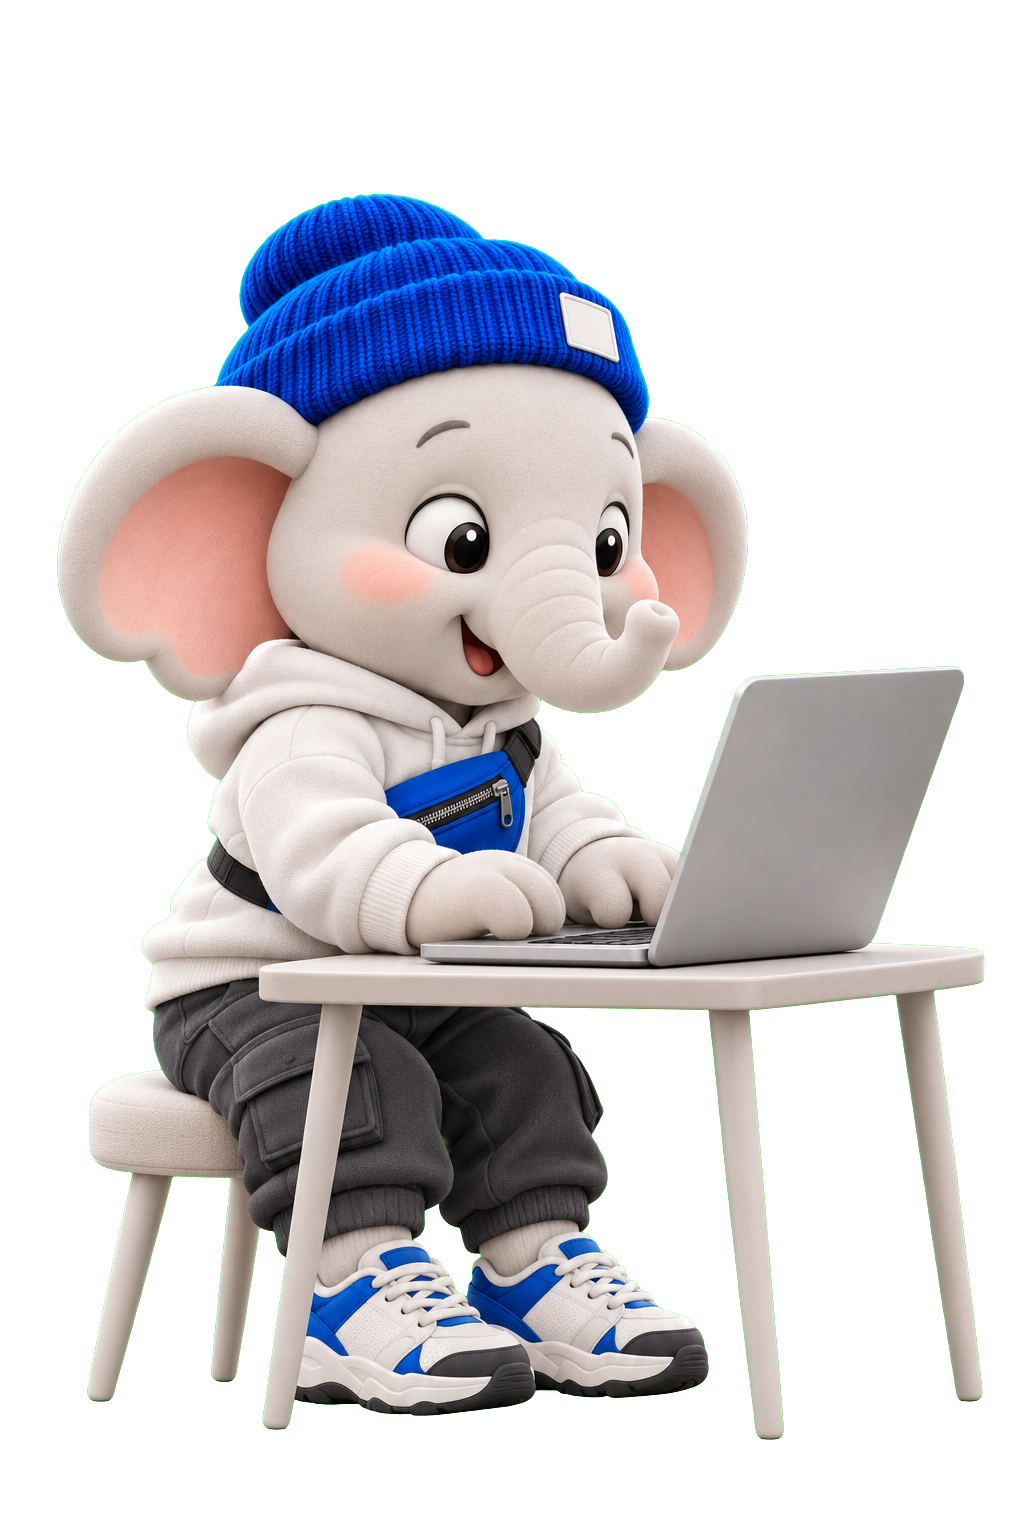
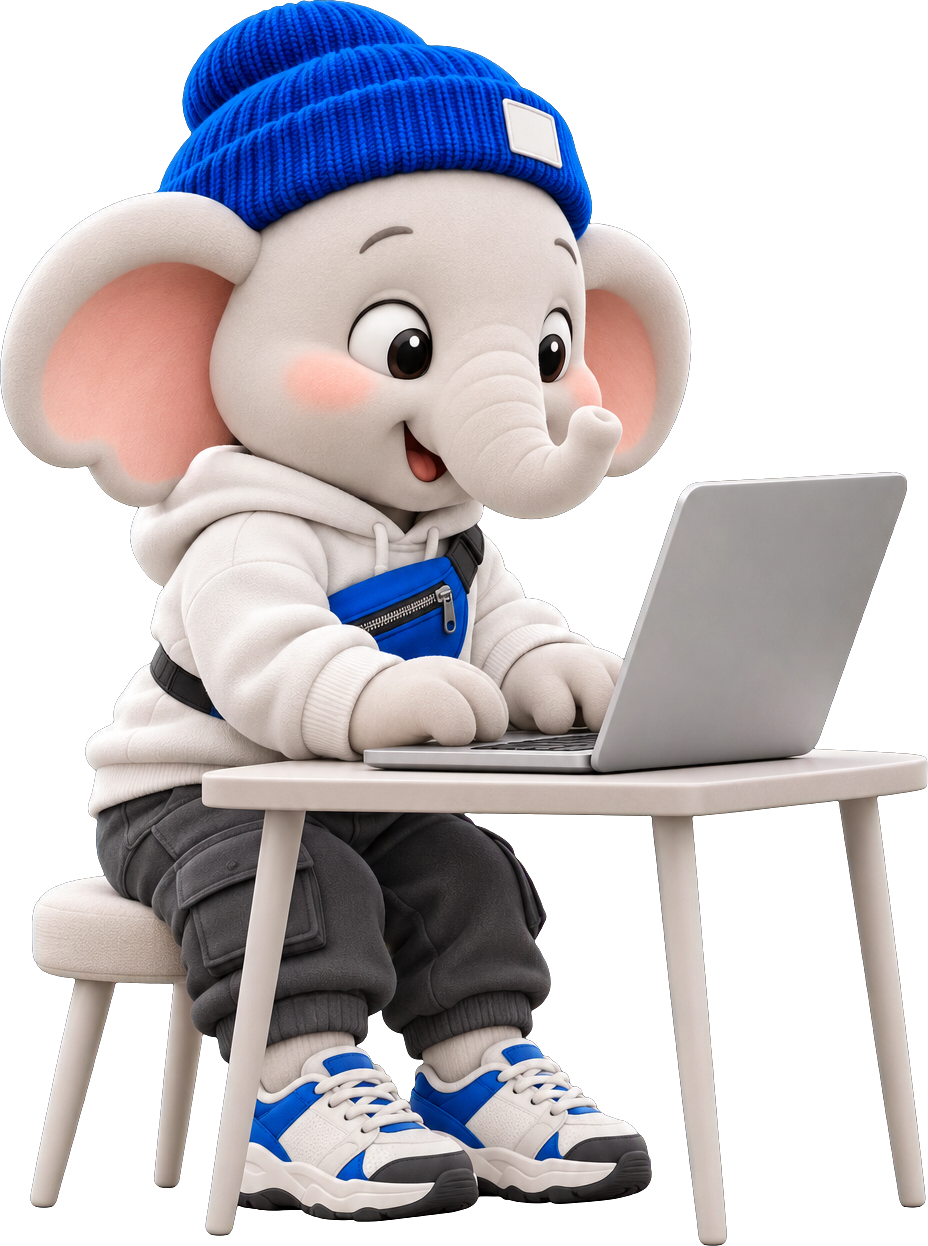
fix: polish mascot alpha edges and set official booking url to wordlordmedia.com/contact

diff --git a/public/social.html b/public/social.html
@@ -325,9 +325,9 @@ a{color:inherit;text-decoration:none}
         "sameAs": [
           "https://instagram.com/wordlordmedia",
           "https://techlord.wordlordmedia.com",
-          "https://calendar.wordlordmedia.com"
+          "https://wordlordmedia.com/contact"
         ],
-        "bookingService": "https://calendar.wordlordmedia.com",
+        "bookingService": "https://wordlordmedia.com/contact",
         "contactPoint": {
           "@type": "ContactPoint",
           "telephone": "+91-79735-75656",
@@ -474,7 +474,7 @@ a{color:inherit;text-decoration:none}
   </div>
   <div class="reels"><figure class="tile"><img src="assets/social/p1travels/1.jpg" alt=""><figcaption><svg viewBox="0 0 12 12" aria-hidden="true"><path d="M3 1.8v8.4L10 6z" fill="currentColor"/></svg><b>2.3M</b></figcaption></figure><figure class="tile"><img src="assets/social/p1travels/2.jpg" alt=""><figcaption><svg viewBox="0 0 12 12" aria-hidden="true"><path d="M3 1.8v8.4L10 6z" fill="currentColor"/></svg><b>105K</b></figcaption></figure><figure class="tile"><img src="assets/social/p1travels/3.jpg" alt=""><figcaption><svg viewBox="0 0 12 12" aria-hidden="true"><path d="M3 1.8v8.4L10 6z" fill="currentColor"/></svg><b>55.2K</b></figcaption></figure><figure class="tile"><img src="assets/social/p1travels/4.jpg" alt=""><figcaption><svg viewBox="0 0 12 12" aria-hidden="true"><path d="M3 1.8v8.4L10 6z" fill="currentColor"/></svg><b>14.2K</b></figcaption></figure></div></article></section><section class="page brand end"><img class="mascot-peek2" src="assets/mascot/elephant-peek-clean.png" alt=""><img class="logo big" src="assets/wl-logo.png" alt="WordLord Media">
 <div class="cv"><h1 contenteditable="true">Next one could be yours.</h1>
-<dl class="contact"><div><dt class="mono">Calendar / Book Call</dt><dd><a href="https://calendar.wordlordmedia.com" target="_blank" rel="noopener">calendar.wordlordmedia.com</a></dd></div><div><dt class="mono">Web</dt><dd><a href="https://wordlordmedia.com" target="_blank" rel="noopener">wordlordmedia.com</a></dd></div>
+<dl class="contact"><div><dt class="mono">Book / Contact</dt><dd><a href="https://wordlordmedia.com/contact" target="_blank" rel="noopener">wordlordmedia.com/contact</a></dd></div><div><dt class="mono">Web</dt><dd><a href="https://wordlordmedia.com" target="_blank" rel="noopener">wordlordmedia.com</a></dd></div>
 <div><dt class="mono">Phone</dt><dd><a href="tel:+917973575656">+91 79735 75656</a></dd></div>
 <div><dt class="mono">Email</dt><dd><a href="mailto:support@wordlordmedia.com">support@wordlordmedia.com</a></dd></div>
 <div><dt class="mono">Instagram</dt><dd><a href="https://instagram.com/wordlordmedia">@wordlordmedia</a></dd></div></dl></div><span></span></section><script src="studio.js"></script>

diff --git a/public/index.html b/public/index.html
@@ -449,9 +449,9 @@ video.mascot-laptop { object-fit: contain; object-position: bottom right; }
         "sameAs": [
           "https://instagram.com/wordlordmedia",
           "https://techlord.wordlordmedia.com",
-          "https://calendar.wordlordmedia.com"
+          "https://wordlordmedia.com/contact"
         ],
-        "bookingService": "https://calendar.wordlordmedia.com",
+        "bookingService": "https://wordlordmedia.com/contact",
         "contactPoint": {
           "@type": "ContactPoint",
           "telephone": "+91-79735-75656",
@@ -890,7 +890,7 @@ video.mascot-laptop { object-fit: contain; object-position: bottom right; }
   <img class="mascot-peek2" src="assets/mascot/elephant-peek-clean.png" alt="WordLord Mascot">
   <img class="logo big" src="assets/wl-logo.png" alt="WordLord Media">
   <div class="cv-main"><h1 contenteditable="true">Next one could be yours.</h1>
-  <dl class="contact"><div><dt class="mono">Calendar / Book Call</dt><dd><a href="https://calendar.wordlordmedia.com" target="_blank" rel="noopener">calendar.wordlordmedia.com</a></dd></div><div><dt class="mono">Web</dt><dd><a href="https://wordlordmedia.com" target="_blank" rel="noopener">wordlordmedia.com</a></dd></div>
+  <dl class="contact"><div><dt class="mono">Book / Contact</dt><dd><a href="https://wordlordmedia.com/contact" target="_blank" rel="noopener">wordlordmedia.com/contact</a></dd></div><div><dt class="mono">Web</dt><dd><a href="https://wordlordmedia.com" target="_blank" rel="noopener">wordlordmedia.com</a></dd></div>
   <div><dt class="mono">Phone</dt><dd><a href="tel:+917973575656">+91 79735 75656</a></dd></div>
   <div><dt class="mono">Email</dt><dd><a href="mailto:support@wordlordmedia.com">support@wordlordmedia.com</a></dd></div>
   <div><dt class="mono">Instagram</dt><dd><a href="https://instagram.com/wordlordmedia">@wordlordmedia</a></dd></div></dl></div>

diff --git a/public/websites.html b/public/websites.html
@@ -449,9 +449,9 @@ video.mascot-laptop { object-fit: contain; object-position: bottom right; }
         "sameAs": [
           "https://instagram.com/wordlordmedia",
           "https://techlord.wordlordmedia.com",
-          "https://calendar.wordlordmedia.com"
+          "https://wordlordmedia.com/contact"
         ],
-        "bookingService": "https://calendar.wordlordmedia.com",
+        "bookingService": "https://wordlordmedia.com/contact",
         "contactPoint": {
           "@type": "ContactPoint",
           "telephone": "+91-79735-75656",
@@ -890,7 +890,7 @@ video.mascot-laptop { object-fit: contain; object-position: bottom right; }
   <img class="mascot-peek2" src="assets/mascot/elephant-peek-clean.png" alt="WordLord Mascot">
   <img class="logo big" src="assets/wl-logo.png" alt="WordLord Media">
   <div class="cv-main"><h1 contenteditable="true">Next one could be yours.</h1>
-  <dl class="contact"><div><dt class="mono">Calendar / Book Call</dt><dd><a href="https://calendar.wordlordmedia.com" target="_blank" rel="noopener">calendar.wordlordmedia.com</a></dd></div><div><dt class="mono">Web</dt><dd><a href="https://wordlordmedia.com" target="_blank" rel="noopener">wordlordmedia.com</a></dd></div>
+  <dl class="contact"><div><dt class="mono">Book / Contact</dt><dd><a href="https://wordlordmedia.com/contact" target="_blank" rel="noopener">wordlordmedia.com/contact</a></dd></div><div><dt class="mono">Web</dt><dd><a href="https://wordlordmedia.com" target="_blank" rel="noopener">wordlordmedia.com</a></dd></div>
   <div><dt class="mono">Phone</dt><dd><a href="tel:+917973575656">+91 79735 75656</a></dd></div>
   <div><dt class="mono">Email</dt><dd><a href="mailto:support@wordlordmedia.com">support@wordlordmedia.com</a></dd></div>
   <div><dt class="mono">Instagram</dt><dd><a href="https://instagram.com/wordlordmedia">@wordlordmedia</a></dd></div></dl></div>

diff --git a/public/og-social-card.html b/public/og-social-card.html
@@ -229,7 +229,7 @@
     <footer class="og-foot">
       <div class="og-foot-item">
         <span>Book Strategy Call:</span>
-        <b>calendar.wordlordmedia.com</b>
+        <b>wordlordmedia.com/contact</b>
       </div>
       <div class="og-foot-item">
         <span>Verified Play Counts:</span>
@@ -244,3 +244,4 @@
   </div>
 </body>
 </html>
+

diff --git a/public/og-websites-card.html b/public/og-websites-card.html
@@ -195,7 +195,7 @@
     <footer class="og-foot">
       <div class="og-foot-item">
         <span>Book Strategy Call:</span>
-        <b>calendar.wordlordmedia.com</b>
+        <b>wordlordmedia.com/contact</b>
       </div>
       <div class="og-foot-item">
         <span>HQ:</span>
@@ -210,3 +210,4 @@
   </div>
 </body>
 </html>
+
